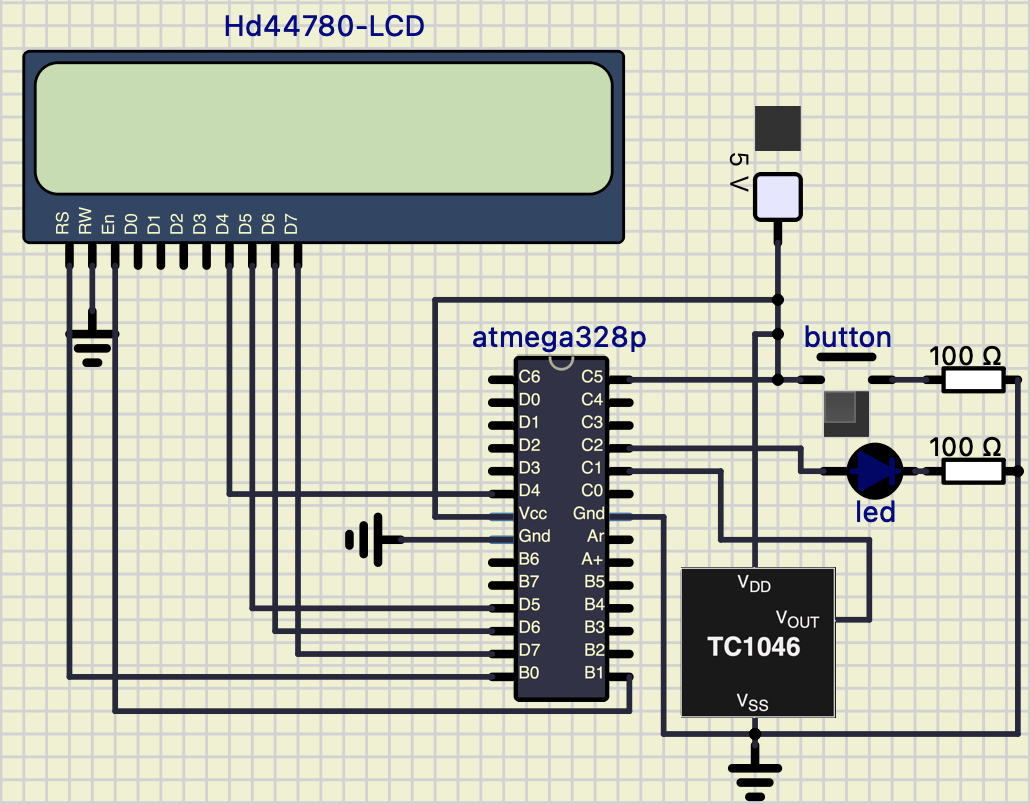
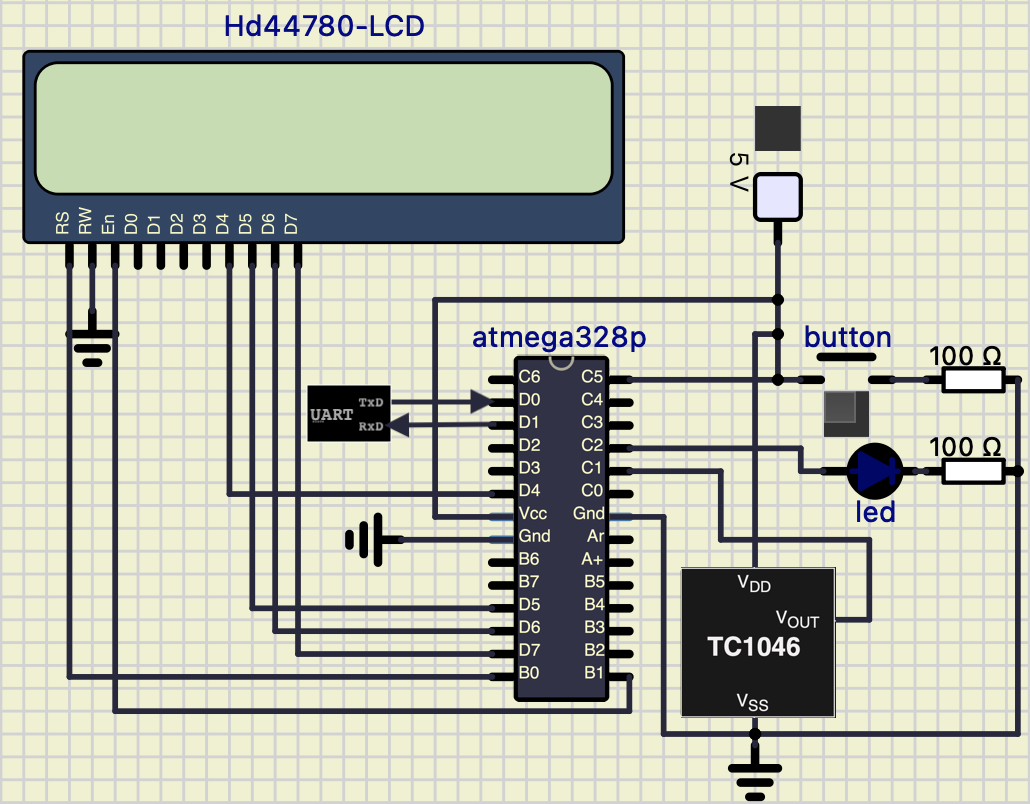
update 7.9

Changed region(s): [[0.2796, 0.4664, 0.4971, 0.5597]]

diff --git a/Labs/07-uart/READMe.md b/Labs/07-uart/READMe.md
@@ -7,7 +7,7 @@ Link to this file in GitHub repository:
 
 ### Analog-to-Digital Conversion
 
-1. Complete table with voltage divider, calculated, and measured ADC values for all five push buttons.
+1. Completed table with voltage divider, calculated, and measured ADC values for all five push buttons.
 
    | **Push button** | **PC0[A0] voltage** | **ADC value (calculated)** | **ADC value (measured)** |
    | :-: | :-: | :-: | :-: |
@@ -18,7 +18,7 @@ Link to this file in GitHub repository:
    | Select | 3.181&nbsp;V | 651 | 639 |
    | none   | 5&nbsp;V | 1023 | 1023 |
 
-2. Code listing of ACD interrupt service routine for sending data to the LCD/UART and identification of the pressed button. Always use syntax highlighting and meaningful comments:
+2. Code listing of ACD interrupt service routine for sending data to the LCD/UART and identification of the pressed button:
 
 ```c
 /**********************************************************************
@@ -63,15 +63,15 @@ ISR(ADC_vect)
 
    ![UART communication](images/uart.png)
 
-2. Flowchart figure for function `uint8_t get_parity(uint8_t data, uint8_t type)` which calculates a parity bit of input 8-bit `data` according to parameter `type`. The image can be drawn on a computer or by hand. Use clear descriptions of the individual steps of the algorithms.
+2. Flowchart figure for function `uint8_t get_parity(uint8_t data, uint8_t type)` which calculates a parity bit of input 8-bit `data` according to parameter `type`:
 
    ![Function parity flowchart](images/flowchart.png)
 
 
 ### Temperature meter
 
-Consider an application for temperature measurement and display. Use temperature sensor [TC1046](http://ww1.microchip.com/downloads/en/DeviceDoc/21496C.pdf), LCD, one LED and a push button. After pressing the button, the temperature is measured, its value is displayed on the LCD and data is sent to the UART. When the temperature is too high, the LED will start blinking.
+An application for temperature measurement and display. Used temperature sensor [TC1046](http://ww1.microchip.com/downloads/en/DeviceDoc/21496C.pdf), LCD, one LED and a push button. After pressing the button, the temperature is measured, its value is displayed on the LCD and data is sent to the UART. When the temperature is too high, the LED will start blinking.
 
-1. Scheme of temperature meter. The image can be drawn on a computer or by hand. Always name all components and their values.
+1. Scheme of temperature meter:
 
    ![Temperature Meter](images/temp_meter.png)
